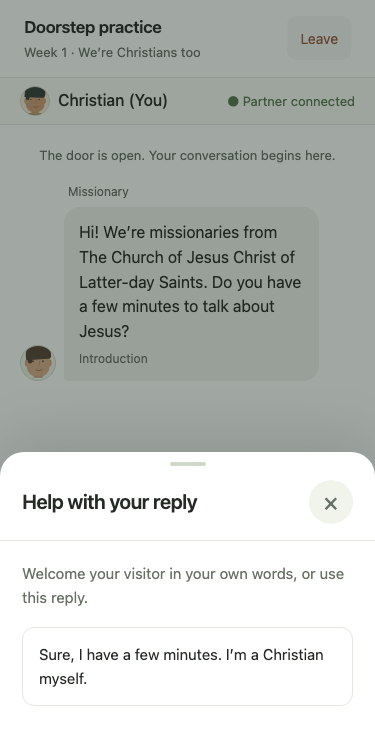
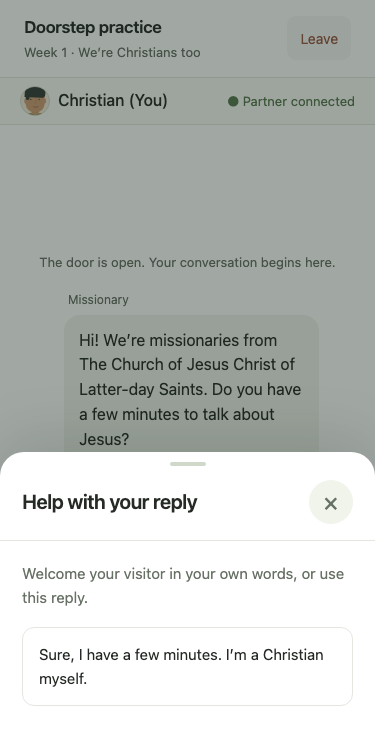
chat

diff --git a/src/components/conversation/ConversationView.tsx b/src/components/conversation/ConversationView.tsx
@@ -23,8 +23,6 @@ import {
 import { OpenPassageContext } from './passageContext'
 import { Sheet } from './Sheet'
 
-/** Messages kept in view; older ones fold into "Earlier messages". */
-const VISIBLE_MESSAGES = 4
 /** Within this distance of the bottom, a new message scrolls into view. */
 const NEAR_BOTTOM_PX = 96
 /** Rows in the missionary's choice card; the rest are under "More directions". */
@@ -73,7 +71,6 @@ export function ConversationView({
   const [draft, setDraft] = useState<Draft>({ forLength: -1, id: null })
   /** The history length at which the missionary said "They said something else". */
   const [heardFor, setHeardFor] = useState(-1)
-  const [earlierOpen, setEarlierOpen] = useState(false)
   const restoreFocus = useRef(true)
   const sendRef = useRef<HTMLButtonElement>(null)
   const scrollRef = useRef<HTMLElement>(null)
@@ -108,6 +105,17 @@ export function ConversationView({
     if (nearBottom.current || history.at(-1)?.speaker === role) pane.scrollTop = pane.scrollHeight
   }, [history, role])
 
+  // When the composer grows or shrinks, a reader at the bottom stays at the bottom.
+  useLayoutEffect(() => {
+    const pane = scrollRef.current
+    if (!pane || typeof ResizeObserver === 'undefined') return
+    const observer = new ResizeObserver(() => {
+      if (nearBottom.current) pane.scrollTop = pane.scrollHeight
+    })
+    observer.observe(pane)
+    return () => observer.disconnect()
+  }, [])
+
   const choose = (id: string | null) => {
     setDraft({ forLength: history.length, id })
     restoreFocus.current = false
@@ -129,8 +137,6 @@ export function ConversationView({
     onCommit(chosenId ?? FREE_RESPONSE_ID)
   }
 
-  const visible = messages.slice(-VISIBLE_MESSAGES)
-  const earlier = messages.slice(0, -VISIBLE_MESSAGES)
   const latest = messages.at(-1)
   const allTopicsUsed = progress.started && !progress.responding && suggestNext(content, progress) === null
   // On the missionary's turn the composer becomes a choice card: a reply to
@@ -215,26 +221,8 @@ export function ConversationView({
         <h1 className={styles.srOnly}>Conversation</h1>
         <p className={styles.sceneContext}>The door is open. Your conversation begins here.</p>
         <div className={styles.thread} aria-label="Conversation prompts" role="region">
-          {earlier.length > 0 ? (
-            <details
-              className={styles.earlier}
-              open={earlierOpen}
-              onToggle={(event) => setEarlierOpen(event.currentTarget.open)}
-            >
-              <summary>Earlier messages ({earlier.length})</summary>
-              {earlier.map((message, index) => (
-                <Message key={index} content={content} message={message} role={role} latest={false} />
-              ))}
-            </details>
-          ) : null}
-          {visible.map((message, index) => (
-            <Message
-              key={earlier.length + index}
-              content={content}
-              message={message}
-              role={role}
-              latest={index === visible.length - 1}
-            />
+          {messages.map((message, index) => (
+            <Message key={index} content={content} message={message} role={role} latest={index === messages.length - 1} />
           ))}
         </div>
         <p className={styles.srOnly} aria-live="polite">

diff --git a/src/components/conversation/conversation.module.css b/src/components/conversation/conversation.module.css
@@ -691,10 +691,26 @@
   color: var(--color-chip-ink);
 }
 
-/* The conversation: a scrolling thread above a pinned composer. */
+/*
+ * The conversation, like a messaging app: the header stays at the top, the
+ * composer at the bottom, and only the thread between them scrolls. Messages
+ * sit just above the composer, newest last.
+ */
+
+/* With very large text the frame still scrolls; the header stays in place. */
+.appConversation .header {
+  position: sticky;
+  top: 0;
+  z-index: 2;
+  background: var(--color-surface);
+}
 
 .conversation {
+  /* Contains the screen-reader announcement, which would otherwise stretch the frame. */
+  position: relative;
+  display: flex;
   flex: 1 0 auto;
+  flex-direction: column;
   min-width: 0;
   height: 0;
   min-height: min(45dvh, 18rem);
@@ -706,28 +722,17 @@
 }
 
 .sceneContext {
-  margin: 0 0 18px;
+  margin: auto 0 18px;
   font-size: var(--text-small);
   text-align: center;
   color: var(--color-muted);
 }
 
 .thread {
+  flex: none;
+  width: 100%;
   max-width: 860px;
   margin: 0 auto;
-}
-
-.earlier {
-  margin: 0 0 19px;
-  font-size: var(--text-small);
-  color: var(--color-muted);
-}
-
-.earlier summary {
-  min-height: 44px;
-  padding: 10px 0;
-  text-align: center;
-  cursor: pointer;
 }
 
 .message {

diff --git a/tests/e2e/two-sided.spec.ts b/tests/e2e/two-sided.spec.ts
@@ -168,6 +168,22 @@ test('Replies: the missionary answers what the Christian said before choosing wh
   await expect(next).toBeVisible()
   await shot(missionary.page, '375-06-own-words')
 
+  // Like a messaging app: every message stays in the thread, the newest in view, and only the thread scrolls.
+  for (const phone of [missionary, christian]) {
+    const { page } = phone
+    await expect(page.getByText(/^Earlier messages/)).toHaveCount(0)
+    await expect(page.locator('main').getByText(COPY.opening)).toHaveCount(1)
+    await expect(page.getByText('Responded aloud', { exact: true })).toBeInViewport()
+    await expect(page.locator('header')).toBeInViewport()
+    const frame = await page.locator('header').evaluate((header) => {
+      const app = header.parentElement as HTMLElement
+      return { overflow: app.scrollHeight - app.clientHeight }
+    })
+    expect(frame.overflow).toBeLessThanOrEqual(1)
+    const thread = await page.locator('main').evaluate((main) => main.scrollHeight > main.clientHeight)
+    expect(thread).toBe(true)
+  }
+
   // Refreshing keeps the committed reply and the turn.
   await christian.page.reload()
   await expect(christian.page.getByText('Responded aloud', { exact: true })).toBeVisible()

diff --git a/tests/e2e/conversation.spec.ts b/tests/e2e/conversation.spec.ts
@@ -38,6 +38,15 @@ async function expectNoHorizontalOverflow(page: Page) {
   expect(overflow).toBeLessThanOrEqual(0)
 }
 
+/** Like a messaging app: the frame stays still and only the thread scrolls. */
+async function expectFrameStill(page: Page) {
+  const overflow = await page.locator('header').evaluate((header) => {
+    const frame = header.parentElement as HTMLElement
+    return frame.scrollHeight - frame.clientHeight
+  })
+  expect(overflow).toBeLessThanOrEqual(1)
+}
+
 /** Missionary taps their role card and gets a code; the Christian taps theirs and joins with it. */
 async function pairUp(browser: Browser, width = 375, height = 740, shots?: string): Promise<Pair> {
   const missionary = await openPhone(browser, width, height, PATH)
@@ -371,6 +380,7 @@ for (const viewport of VIEWPORTS) {
     await shot(missionary.page, `${name}-10-thread-missionary`)
     for (const page of [missionary.page, christian.page]) {
       await expectNoHorizontalOverflow(page)
+      await expectFrameStill(page)
       // Controls only; inline KJV quotations are part of the running text.
       const heights = await page
         .locator('section button:not([aria-label$="read full KJV passage"])')
